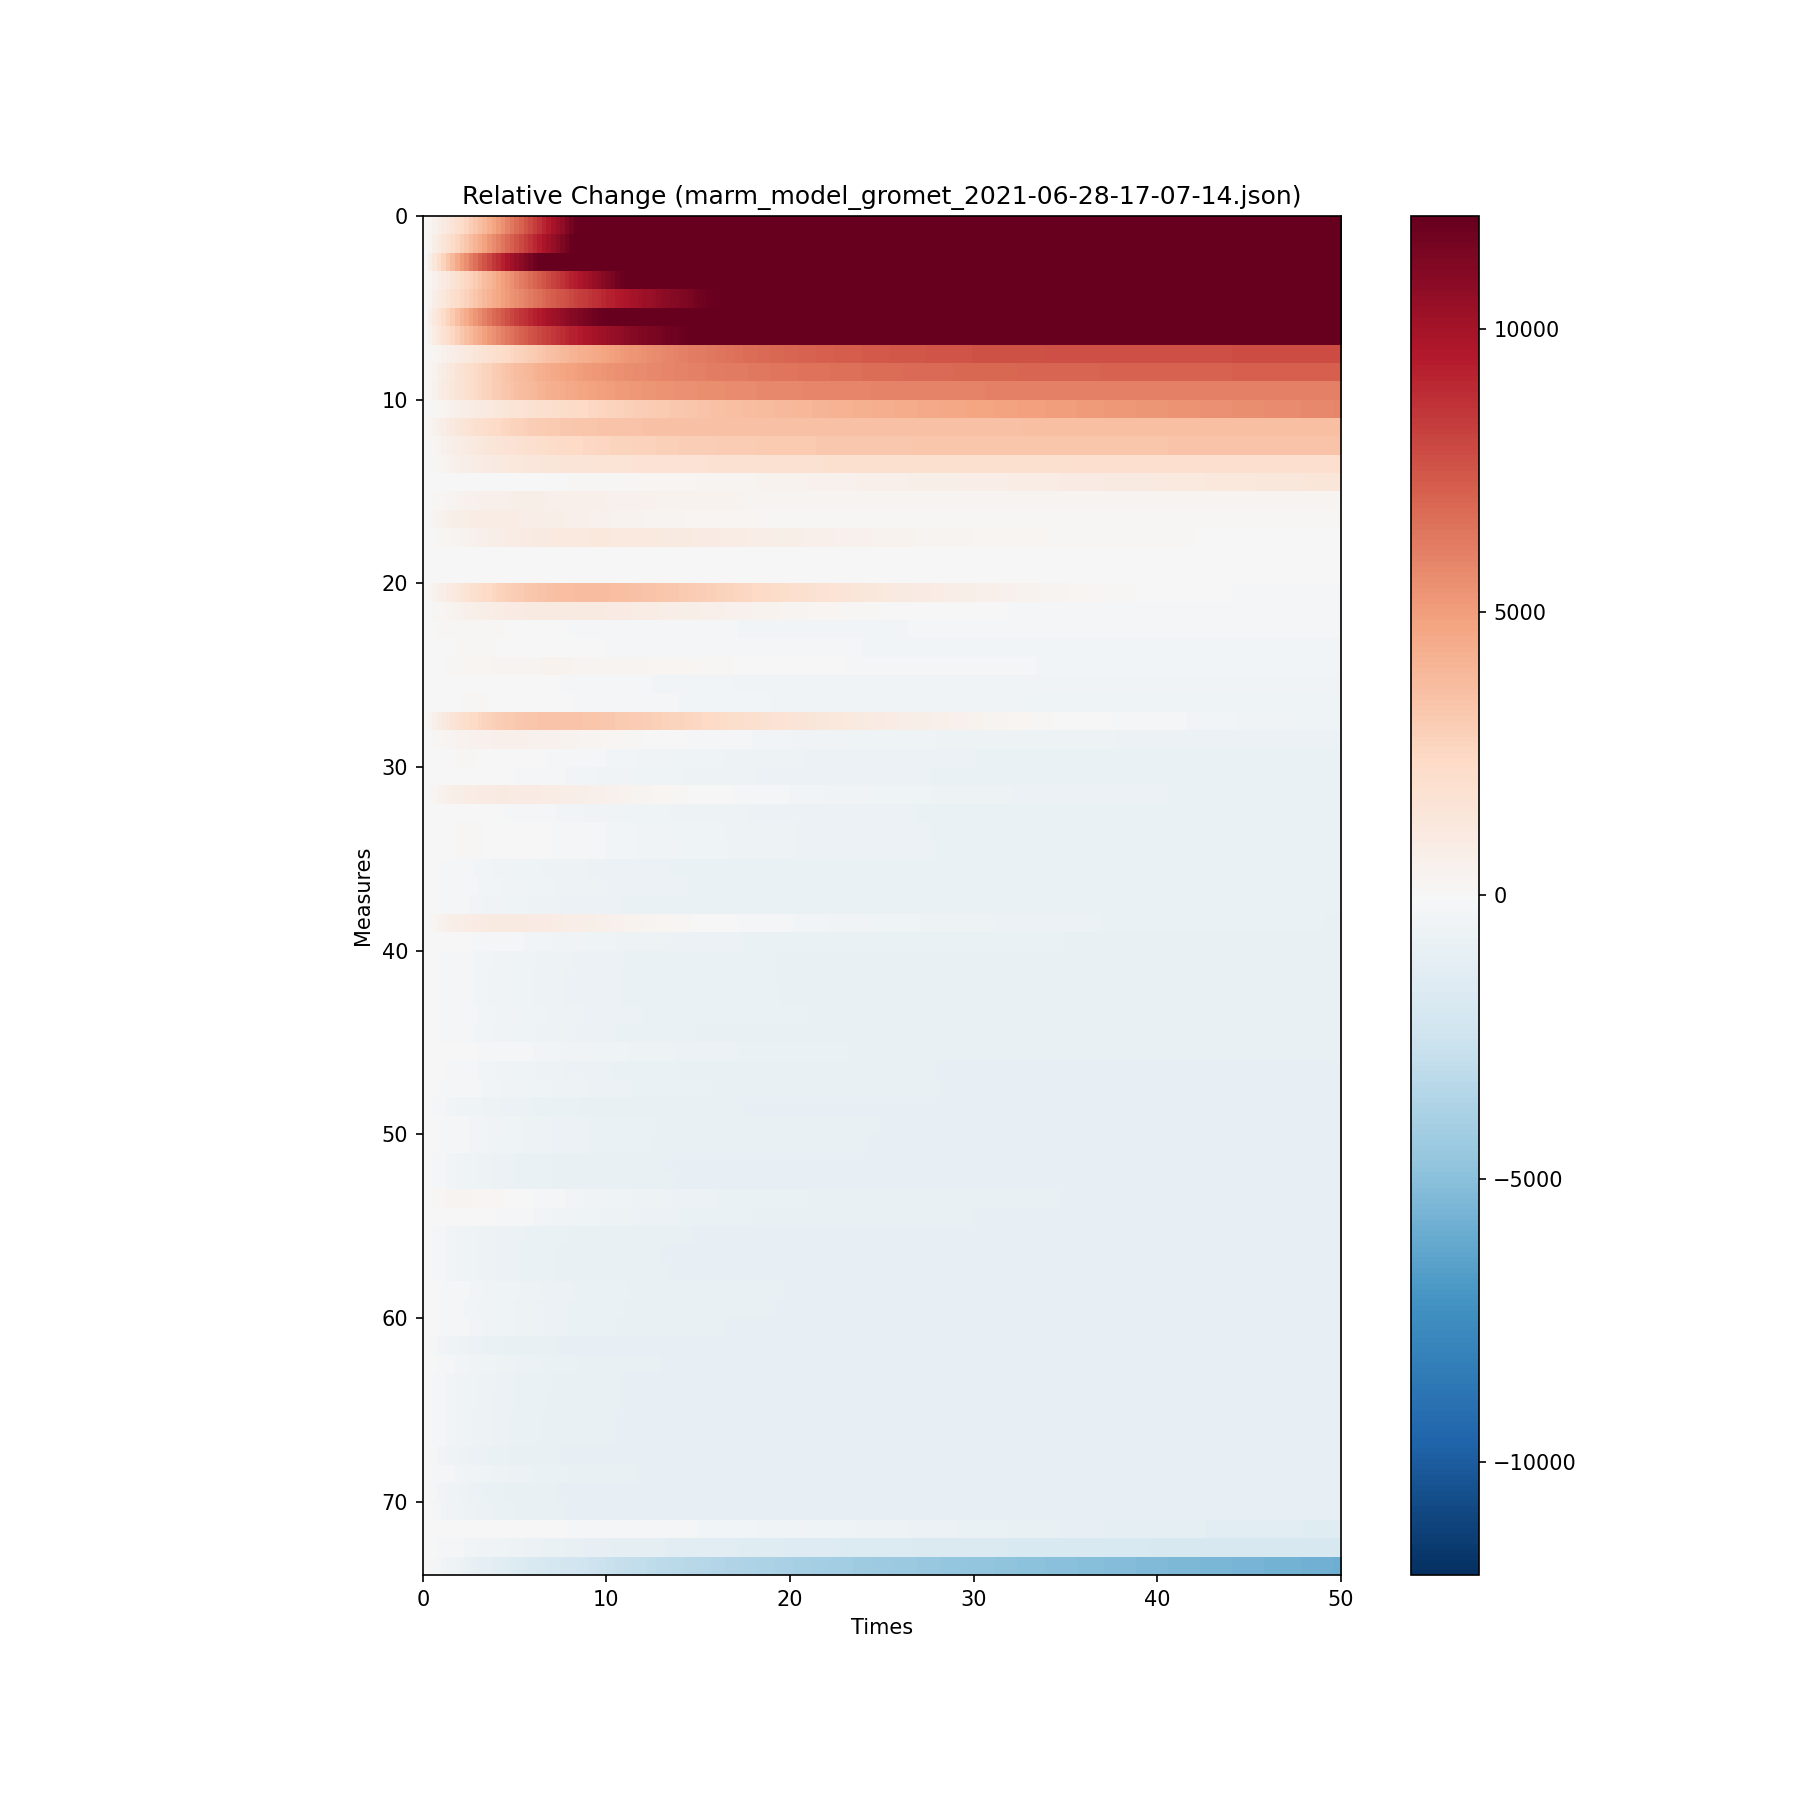
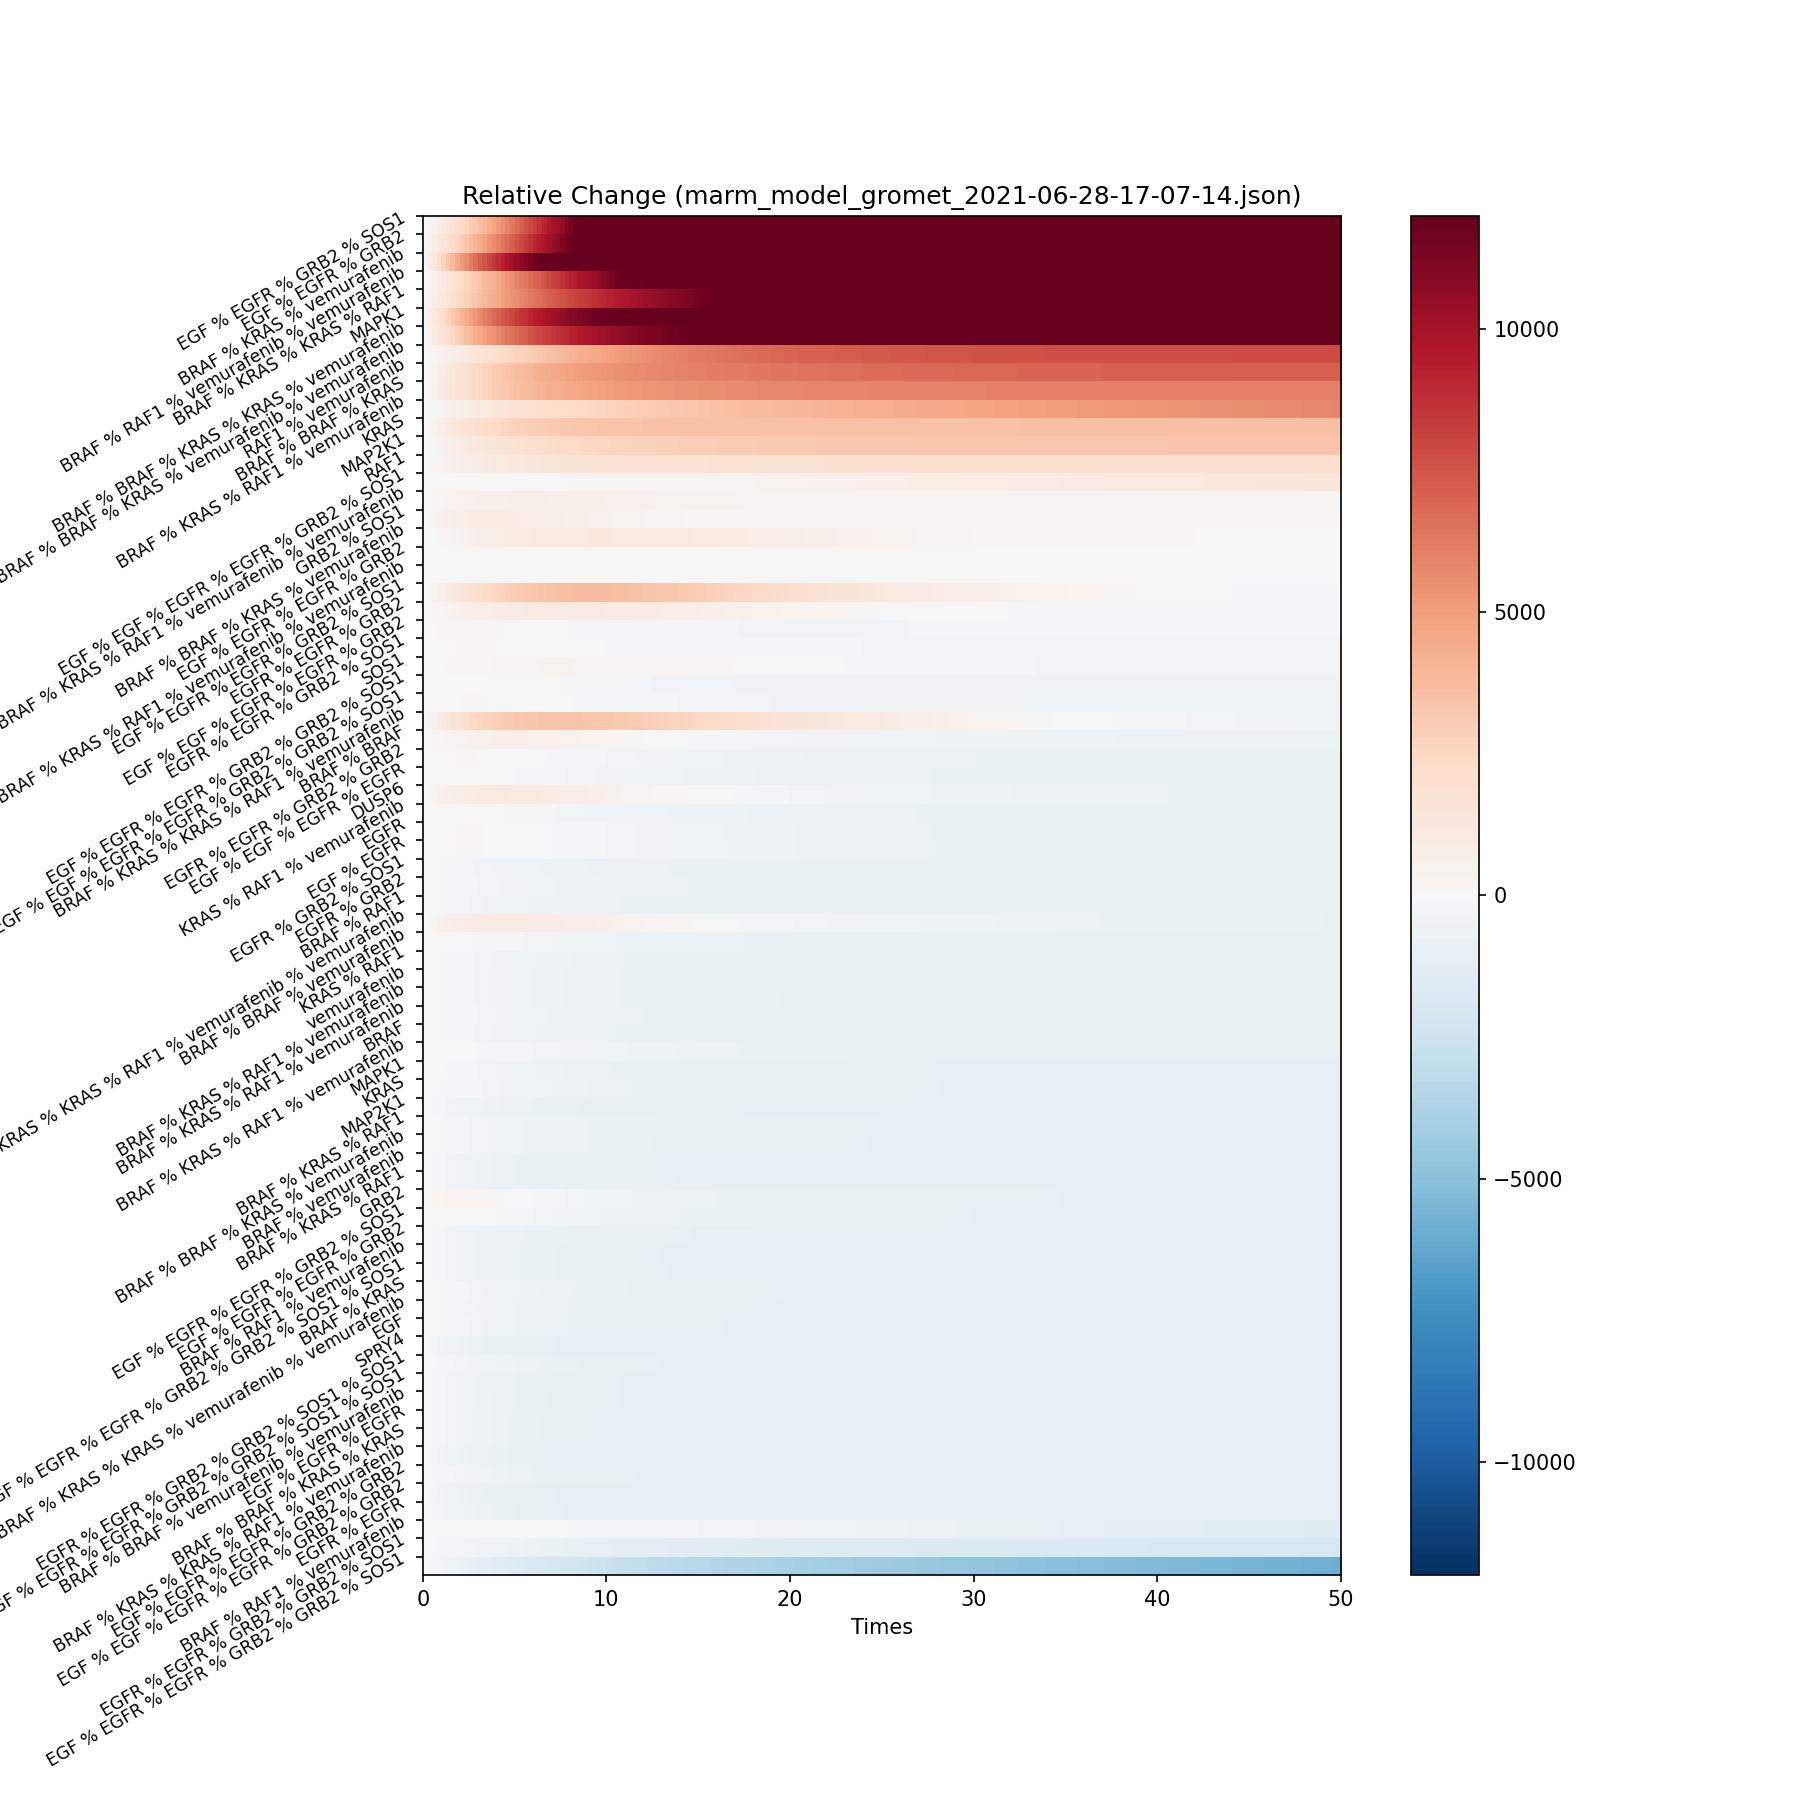
Shortened MARM agent name in plot

diff --git a/gromet/notebooks/7_donu_testing.py b/gromet/notebooks/7_donu_testing.py
@@ -13,6 +13,7 @@ import requests
 import json
 import matplotlib.pyplot as plt
 import numpy as np
+import re
 
 DONU_ENDPOINT = 'https://aske.galois.com/donu/'
 
@@ -290,14 +291,22 @@ x = np.array(response_body['result'][0]['times'])
 y = np.array(list(response_body['result'][0]['values'].keys()))
 A = np.array([v for __, v in response_body['result'][0]['values'].items()])
 
+# Sort signals together
 # i = np.argsort(A[:, 0])[::-1]
 i = np.argsort(A[:, -1] - A[:, 0])[::-1]
+
+# Simplifiy the names
+y_ = np.array([''.join(re.split(r"[(:)]", name)[1::2]) for name in y])
+
 
 # %%
 fig, ax = plt.subplots(nrows = 1, ncols = 1, figsize = (12, 12))
 h = ax.imshow(A[i, :] - A[i, 0, np.newaxis], cmap = plt.get_cmap('RdBu_r'), vmin = -1.2e4, vmax = 1.2e4, extent = [x[0], x[-1], len(y), 0], interpolation = 'none')
 __ = plt.setp(ax, xlabel = 'Times', ylabel = 'Measures', title = f"Relative Change ({model_def['source']['model']})")
 __ = plt.colorbar(h, ax = ax)
+
+__ = plt.setp(ax, yticks = range(len(y)), yticklabels = y_)
+__ = plt.setp(plt.getp(ax, 'yticklabels'), rotation = 30, fontsize = 'small')
 
 fig.savefig(f'../figures/donu_testing_marm.png', dpi = 150)
 
